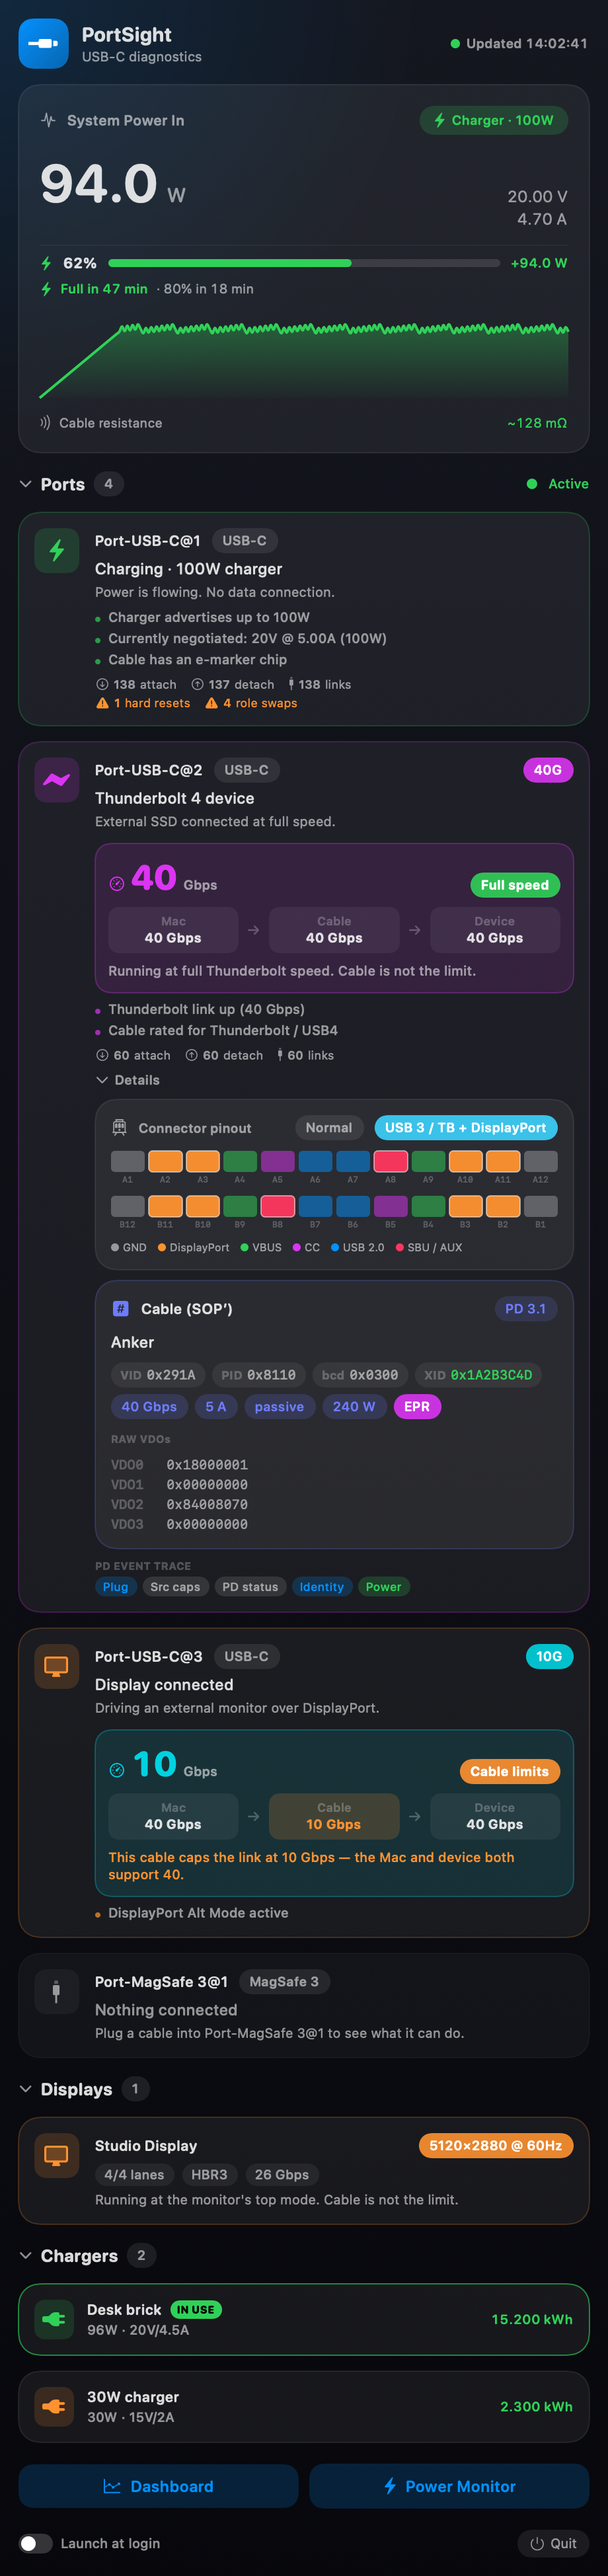
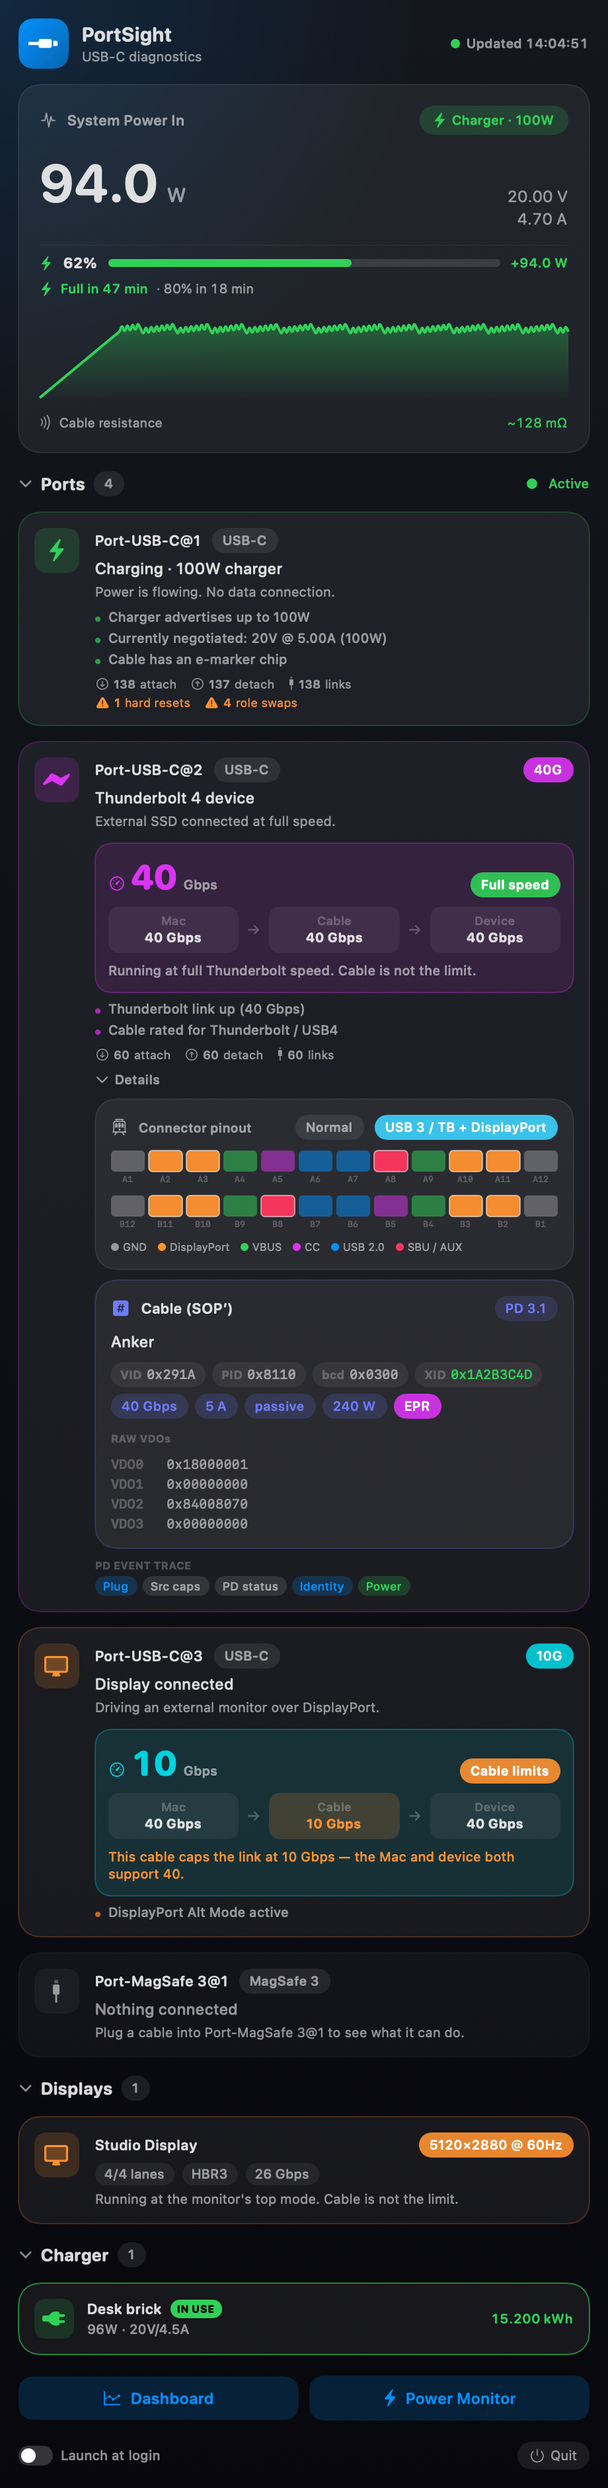
Popover shows only the in-use charger; full charger catalog stays in the dashboard

diff --git a/Sources/CableProUI/ContentView.swift b/Sources/CableProUI/ContentView.swift
@@ -54,11 +54,11 @@ public struct ContentView: View {
                 }
             }
 
-            if !model.cableStore.allChargers.isEmpty {
-                section("Chargers", count: model.cableStore.chargers.count, expanded: $showChargers) {
-                    ForEach(sortedChargers) { rec in
-                        ChargerMiniRow(record: rec,
-                                       isConnected: rec.fingerprint == model.connectedChargerKey)
+            // Only the charger(s) in use now — the full catalog lives in the dashboard.
+            if !chargersInUse.isEmpty {
+                section("Charger", count: chargersInUse.count, expanded: $showChargers) {
+                    ForEach(chargersInUse) { rec in
+                        ChargerMiniRow(record: rec, isConnected: true)
                     }
                 }
             }
@@ -72,13 +72,8 @@ public struct ContentView: View {
         }
     }
 
-    private var sortedChargers: [ChargerRecord] {
-        model.cableStore.allChargers.sorted { a, b in
-            let ca = a.fingerprint == model.connectedChargerKey
-            let cb = b.fingerprint == model.connectedChargerKey
-            if ca != cb { return ca }
-            return a.totalEnergyWh > b.totalEnergyWh
-        }
+    private var chargersInUse: [ChargerRecord] {
+        model.cableStore.allChargers.filter { $0.fingerprint == model.connectedChargerKey }
     }
 
     private var activeTag: some View {
